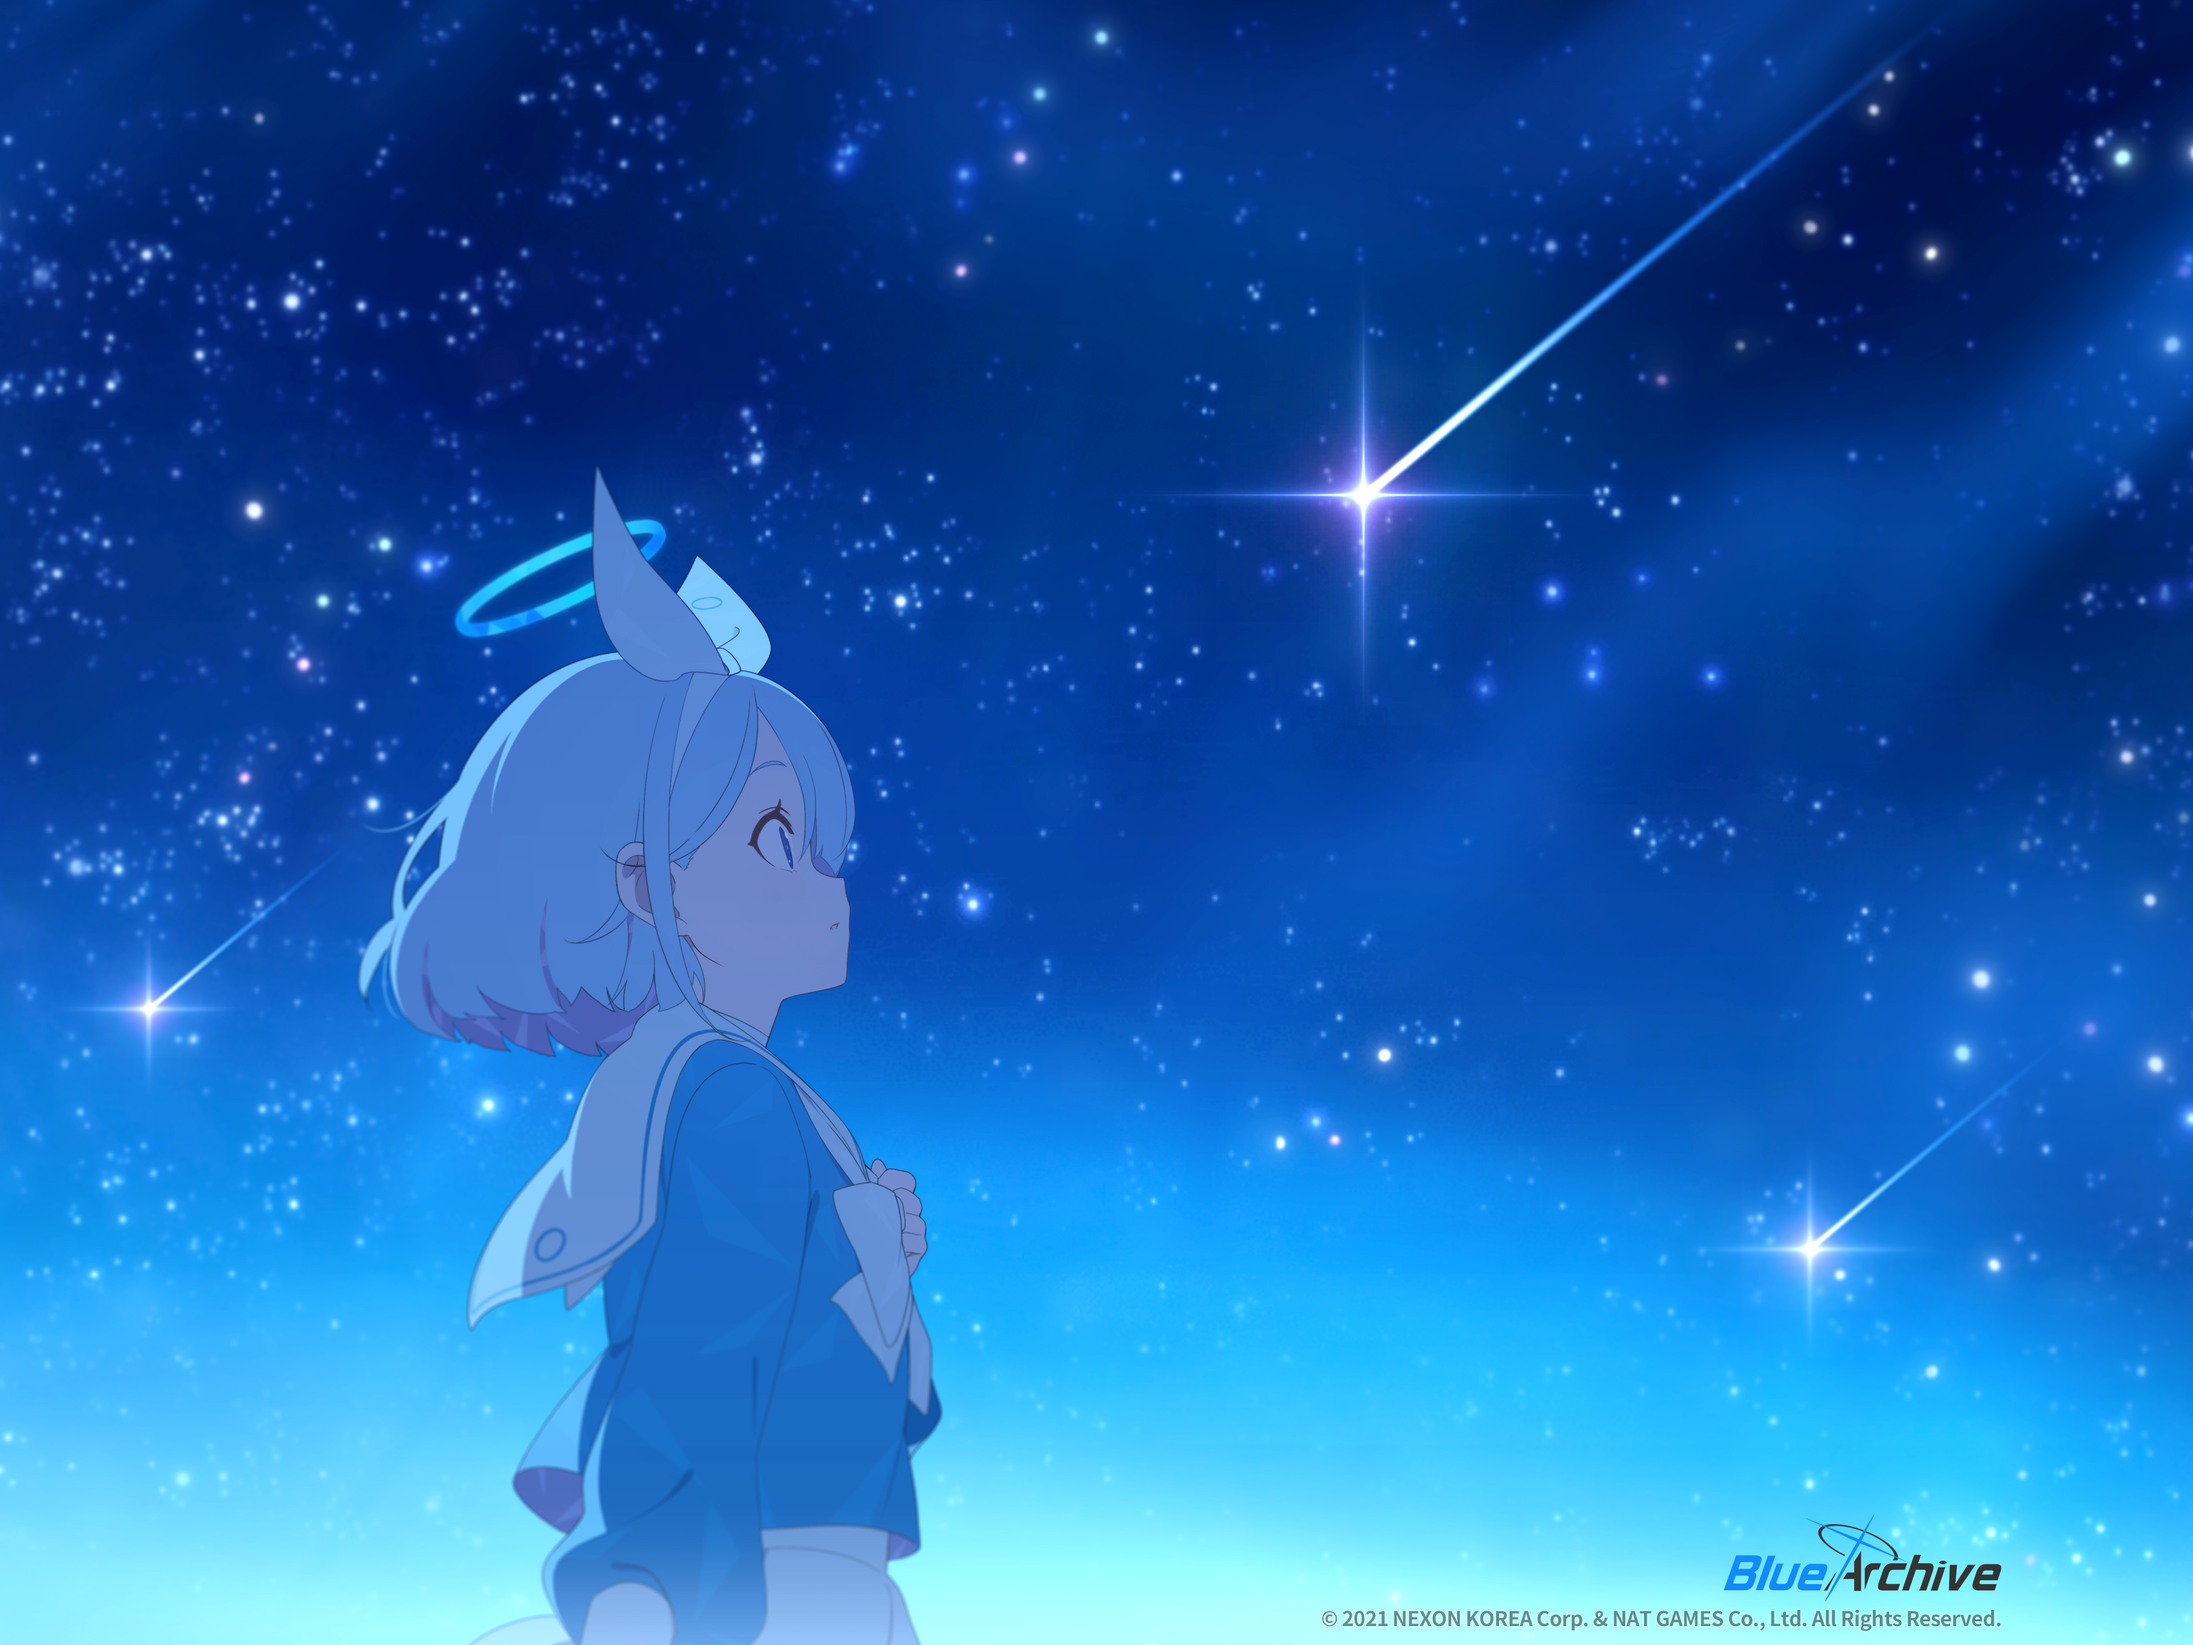
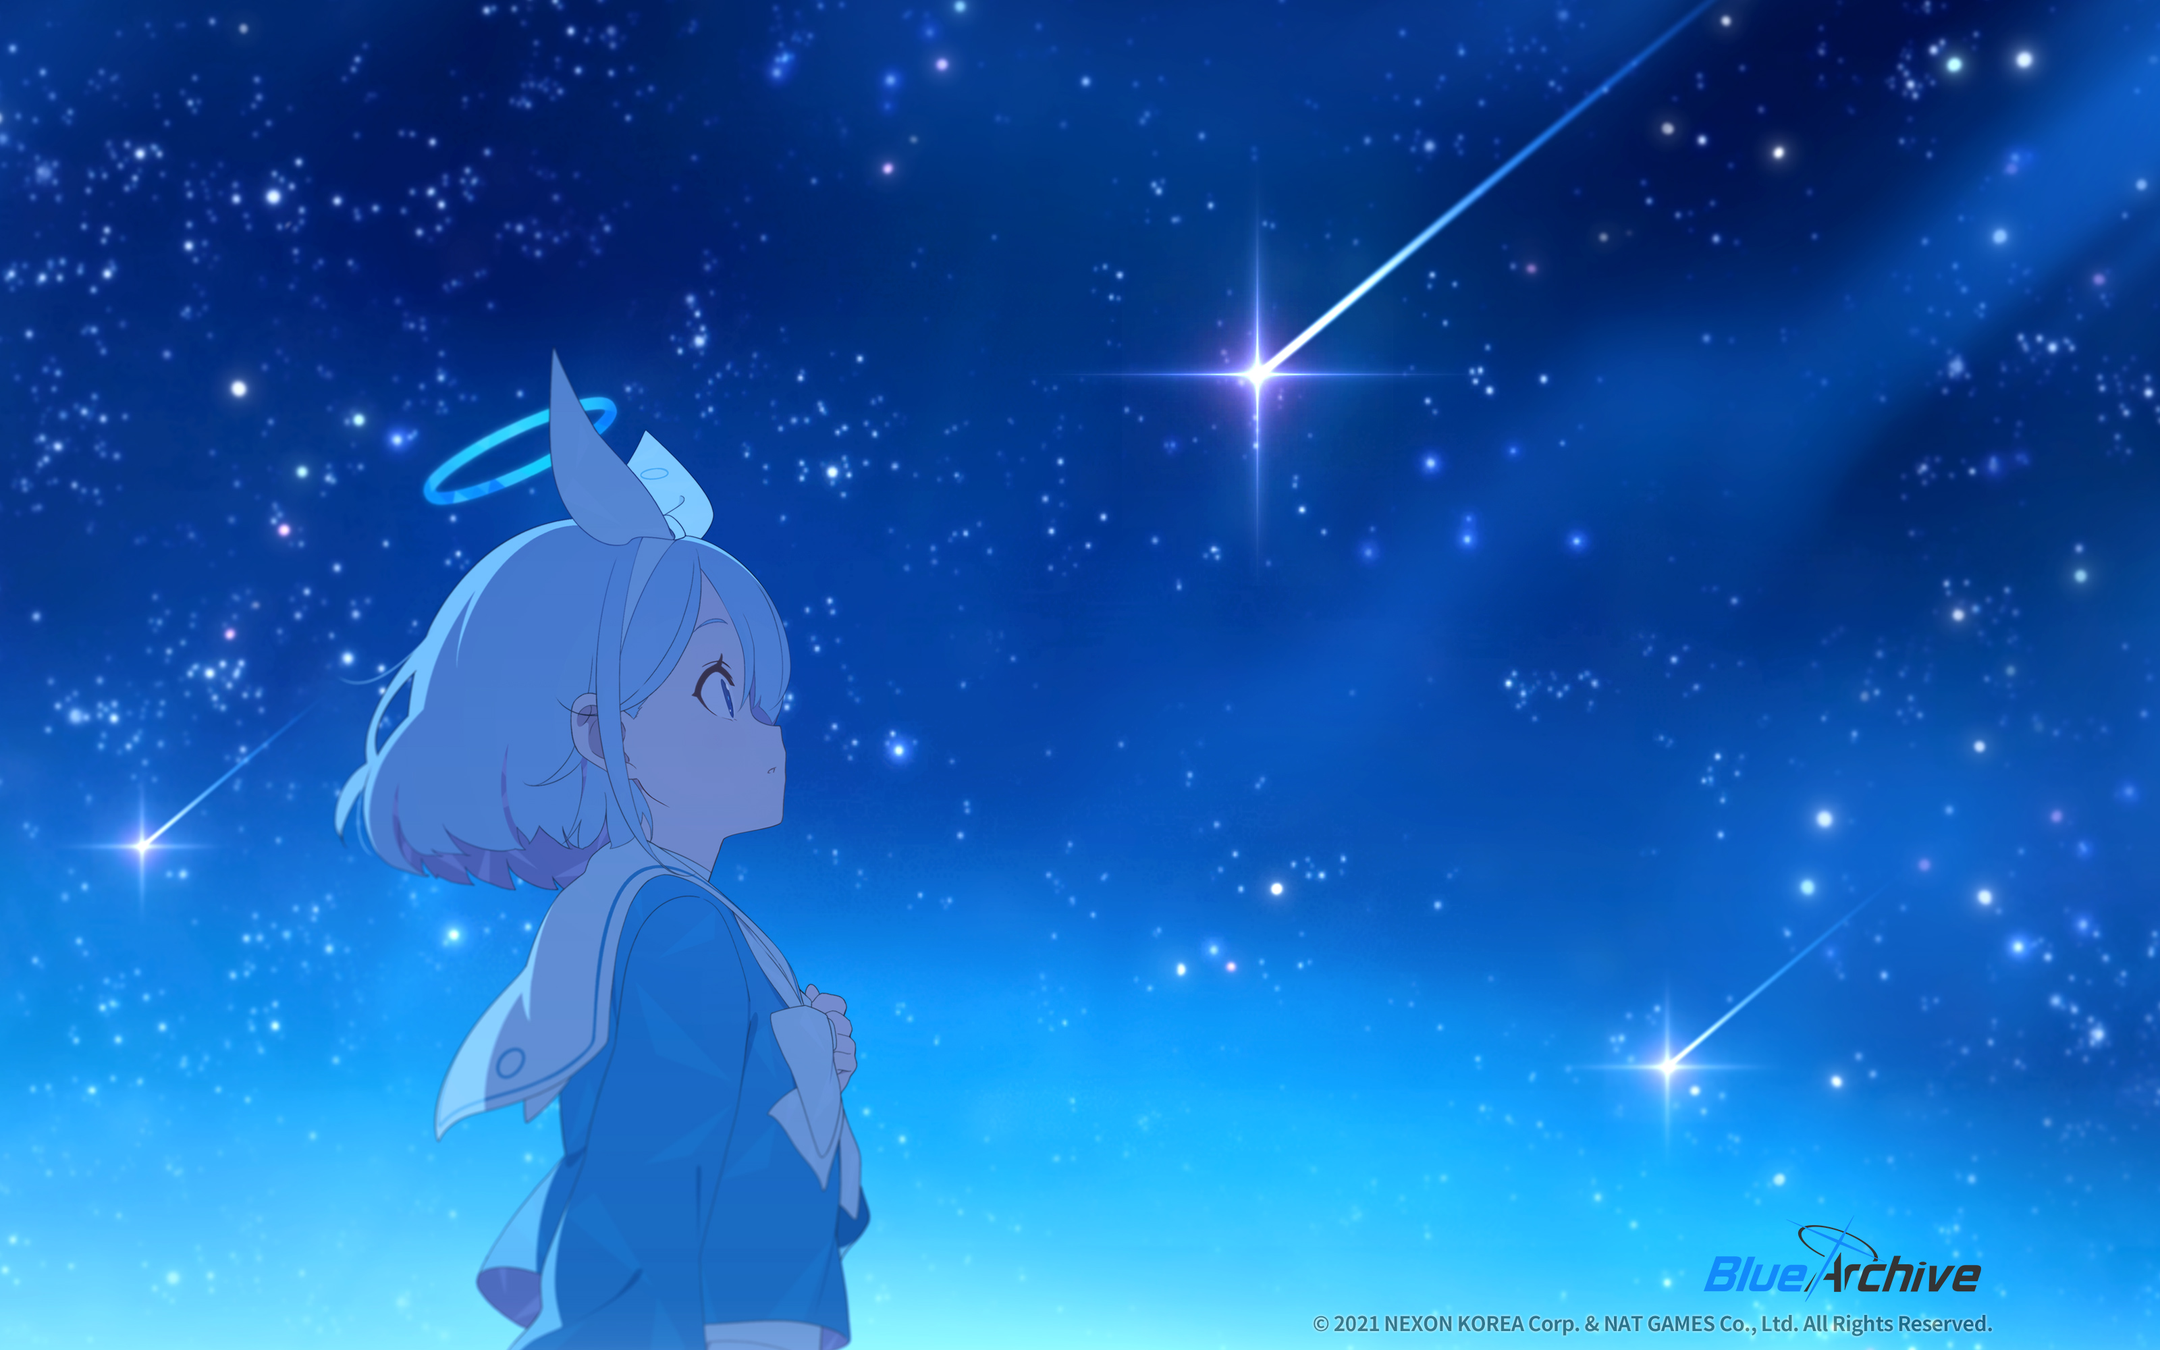
💄 Adjust background image settings

diff --git a/app.css b/app.css
@@ -32,8 +32,8 @@
   /* Image background  */
   --imgbg: url(assets/background.jpg); /* Image URL */
   --imgcol: linear-gradient(
-    rgba(255, 255, 255, 0.7),
-    rgba(255, 255, 255, 0.7)
+    rgba(255, 255, 255, 0.6),
+    rgba(255, 255, 255, 0.6)
   ); /* Filter color */
 }
 
@@ -49,8 +49,8 @@
 
   /* Image background  */
   --imgcol: linear-gradient(
-    rgba(0, 0, 0, 0.85),
-    rgba(0, 0, 0, 0.85)
+    rgba(0, 0, 0, 0.2),
+    rgba(0, 0, 0, 0.2)
   ); /* Filter color */
 }
 
@@ -87,6 +87,7 @@ body {
 .withImageBackground {
   background-image: var(--imgcol), var(--imgbg);
   background-size: cover;
+  background-position: center;
 }
 
 #themeButton {
